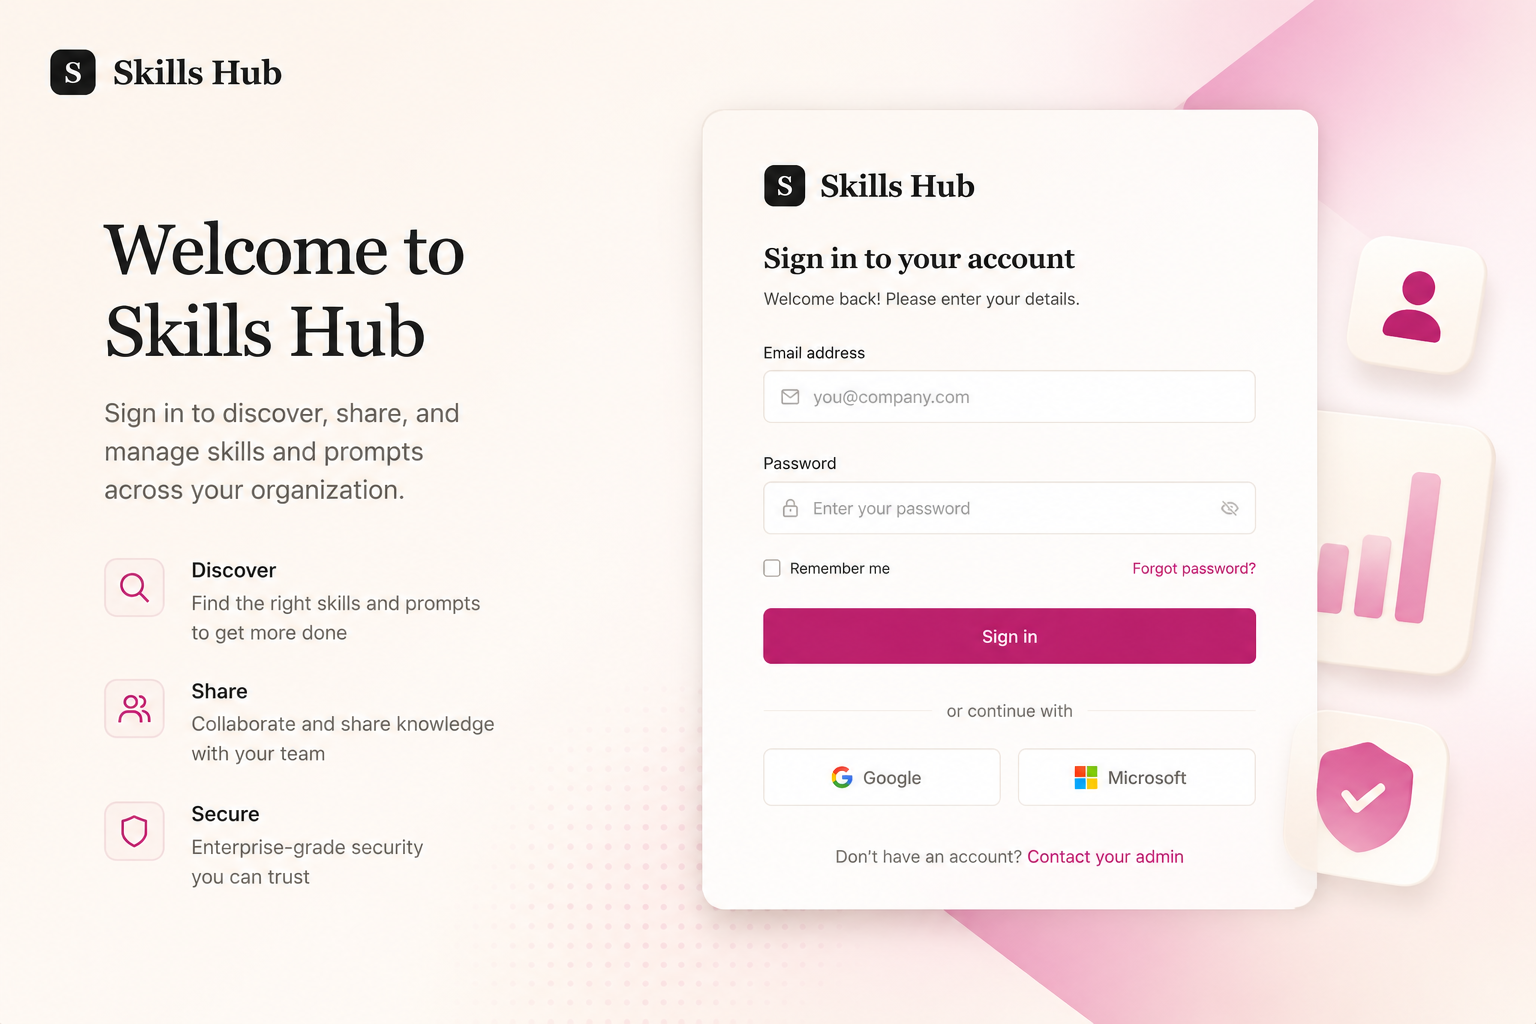
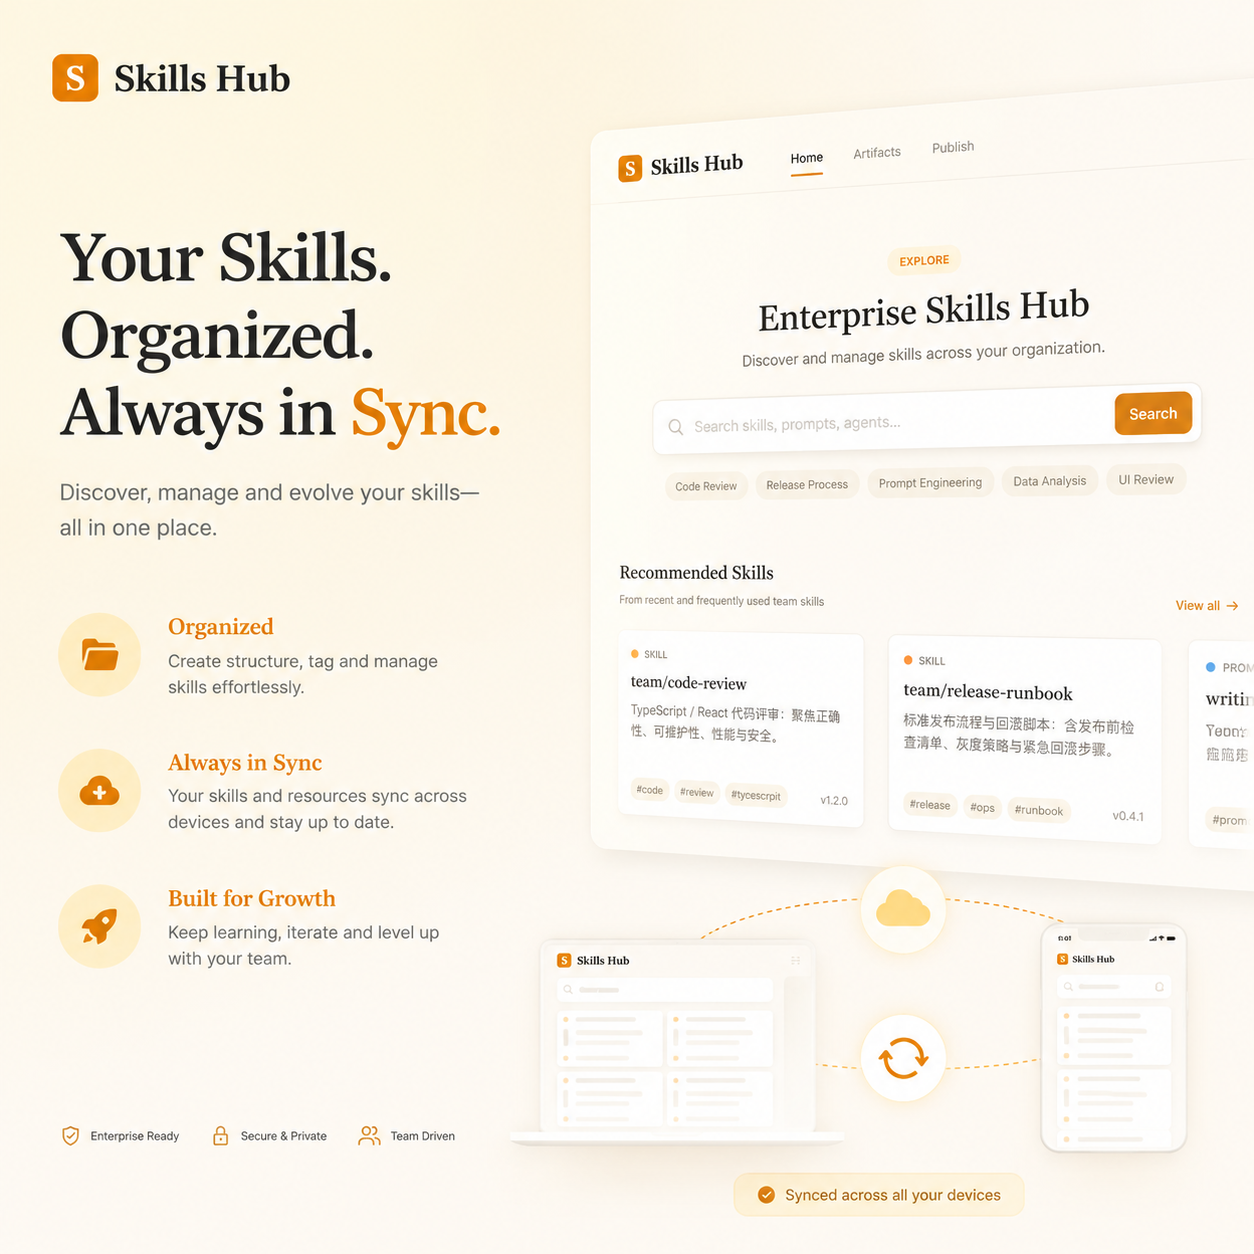
fix: fix assets path

diff --git a/apps/web/vite.config.ts b/apps/web/vite.config.ts
@@ -5,12 +5,12 @@ import { viteStaticCopy } from "vite-plugin-static-copy";
 export default defineConfig({
   plugins: [
     react(),
-    // copy all files under src/asset into the final build under /asset
+    // copy all files under src/assets into the final build under /assets
     viteStaticCopy({
       targets: [
         {
-          src: "src/asset/**/*",
-          dest: "asset",
+          src: "src/assets/**/*",
+          dest: "assets",
         },
       ],
     }),